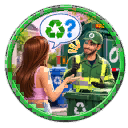
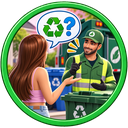
Icono de Preguntar por el reciclaje a partir de la imagen original
La herramienta basurero_interacciones.py puede preparar ahora un icono a
partir de la imagen original (--icono saludar|reciclaje|aviso IMAGEN):
quita el fondo blanco, lo deja en 128x128 y actualiza el .package.

Claude-Session: https://claude.ai/code/session_01G1ycP8uD1AVHaJecJSYf8x

diff --git a/herramientas/basurero_interacciones.py b/herramientas/basurero_interacciones.py
@@ -3,6 +3,11 @@
 
 Uso:
     python3 herramientas/basurero_interacciones.py
+    python3 herramientas/basurero_interacciones.py --icono saludar|reciclaje|aviso IMAGEN
+
+Con --icono, primero prepara el icono a partir de la imagen original: quita el fondo
+blanco de fuera del aro, la reduce a 128x128 y la guarda en camion_basura/icono_*.png
+(el original se guarda al lado como icono_*_original.png).
 
 Modifica camion_basura/Jennikita_CamionBasura.package y añade (o sustituye si ya están):
 - «Saludar al basurero» y «Preguntar por el reciclaje»: interacciones que salen al
@@ -156,6 +161,58 @@ def simdata_buff(plantilla):
     return bytes(d)
 
 
+ICONOS = {
+    "saludar": "icono_saludar",
+    "reciclaje": "icono_reciclaje",
+    "aviso": "icono_aviso",
+}
+ICONO_AVISO = 0xD4961EED372508C7
+
+
+def quitar_fondo(imagen):
+    """Deja transparente el fondo blanco que toca los bordes y reduce a 128x128."""
+    from collections import deque
+    import numpy as np
+    from PIL import ImageFilter
+    im = imagen.convert("RGB")
+    a = np.array(im).astype(int)
+    alto, ancho = a.shape[:2]
+    claro = (a.min(-1) > 225) & ((a.max(-1) - a.min(-1)) < 25)
+    fondo = np.zeros((alto, ancho), bool)
+    cola = deque()
+    bordes = [(y, x) for y in range(alto) for x in (0, ancho - 1)] + [(y, x) for x in range(ancho) for y in (0, alto - 1)]
+    for y, x in bordes:
+        if claro[y, x] and not fondo[y, x]:
+            fondo[y, x] = True
+            cola.append((y, x))
+    while cola:
+        y, x = cola.popleft()
+        for ny, nx in ((y + 1, x), (y - 1, x), (y, x + 1), (y, x - 1)):
+            if 0 <= ny < alto and 0 <= nx < ancho and claro[ny, nx] and not fondo[ny, nx]:
+                fondo[ny, nx] = True
+                cola.append((ny, nx))
+    mascara = Image.fromarray(np.where(fondo, 0, 255).astype(np.uint8))
+    x0, y0, x1, y1 = mascara.getbbox()
+    alpha = mascara.filter(ImageFilter.MinFilter(3)).filter(ImageFilter.GaussianBlur(1.2))
+    im.putalpha(alpha)
+    lado, cx, cy, margen = max(x1 - x0, y1 - y0), (x0 + x1) // 2, (y0 + y1) // 2, 4
+    im = im.crop((cx - lado // 2 - margen, cy - lado // 2 - margen, cx + lado // 2 + margen, cy + lado // 2 + margen))
+    # reducir con alpha premultiplicado para que no quede borde blanco
+    arr = np.array(im).astype(float)
+    arr[..., :3] *= arr[..., 3:] / 255
+    arr = np.array(Image.fromarray(arr.clip(0, 255).astype(np.uint8), "RGBA").resize((128, 128), Image.LANCZOS)).astype(float)
+    al = arr[..., 3:]
+    arr[..., :3] = np.where(al > 0, arr[..., :3] * 255 / np.maximum(al, 1), 0)
+    return Image.fromarray(arr.clip(0, 255).astype(np.uint8), "RGBA")
+
+
+def preparar_icono(cual, ruta):
+    carpeta = os.path.join(RAIZ, "camion_basura")
+    original = Image.open(ruta)
+    original.convert("RGB").save(os.path.join(carpeta, ICONOS[cual] + "_original.png"), optimize=True)
+    quitar_fondo(original).save(os.path.join(carpeta, ICONOS[cual] + ".png"), optimize=True)
+
+
 def png(ruta):
     im = Image.open(ruta).convert("RGBA")
     if im.size != (128, 128):
@@ -166,6 +223,11 @@ def png(ruta):
 
 
 def main():
+    if len(sys.argv) == 4 and sys.argv[1] == "--icono" and sys.argv[2] in ICONOS:
+        preparar_icono(sys.argv[2], sys.argv[3])
+    elif len(sys.argv) != 1:
+        raise SystemExit(__doc__)
+
     cabecera, recursos = read_package(PAQUETE)
     por_tgi = {(r.type, r.group, r.instance): r for r in recursos}
 
@@ -188,6 +250,8 @@ def main():
     poner(T_SIMDATA, GRUPO_SIMDATA_BUFF, fnv64(BUFF), simdata_buff(simdata))
     poner(T_PNG, 0, ICONO_SALUDAR, png(os.path.join(RAIZ, "camion_basura", "icono_saludar.png")))
     poner(T_PNG, 0, ICONO_RECICLAJE, png(os.path.join(RAIZ, "camion_basura", "icono_reciclaje.png")))
+    if os.path.exists(os.path.join(RAIZ, "camion_basura", "icono_aviso.png")):
+        poner(T_PNG, 0, ICONO_AVISO, png(os.path.join(RAIZ, "camion_basura", "icono_aviso.png")))
 
     tablas = [r for r in recursos if r.type == T_STBL and r.instance & 0x00FFFFFFFFFFFFFF == TABLA_TEXTOS]
     assert tablas, "no encuentro la tabla de textos del basurero"

diff --git a/README.md b/README.md
@@ -101,11 +101,13 @@ Al hacer clic en el basurero mientras está en tu solar, tus sims tienen dos opc
 El basurero no se entretiene: sigue con lo suyo y se va igual.
 
 Las interacciones, el estado de ánimo, los textos y los iconos los añade al `.package` `herramientas/basurero_interacciones.py`. Lo que hace cada interacción está en el script.
-Los iconos salen de `camion_basura/icono_saludar.png` e `icono_reciclaje.png`: para cambiarlos, sustituye el PNG y ejecuta
+Los iconos salen de `camion_basura/icono_saludar.png`, `icono_reciclaje.png` e `icono_aviso.png`. Para cambiar uno a partir de la imagen original (con fondo blanco), ejecuta:
 
 ```
-python3 herramientas/basurero_interacciones.py
+python3 herramientas/basurero_interacciones.py --icono saludar|reciclaje|aviso IMAGEN
 ```
+
+Quita el fondo blanco de fuera del aro, deja el icono en 128×128, guarda el original como `icono_*_original.png` y actualiza el `.package`.
 
 ## Sim blanco
 
@@ -115,5 +117,5 @@ Si vuelves a exportar el mono desde Sims 4 Studio, deja transparente el fondo de
 
 ## Icono del aviso
 
-El icono del aviso de las 21:00 es un PNG de 128×128 (`2F7D0004:00000000:D4961EED372508C7`), sacado de `camion_basura/icono_aviso_original.png` con el fondo blanco quitado.
+El icono del aviso de las 21:00 es un PNG de 128×128 (`2F7D0004:00000000:D4961EED372508C7`), sacado de `camion_basura/icono_aviso_original.png` con el fondo blanco quitado (ver «Hablar con el basurero» para cambiarlo).
 El juego busca los iconos como PNG. La versión antigua en DST (`00B2D882`) sigue en el `.package`, pero no se usa.
